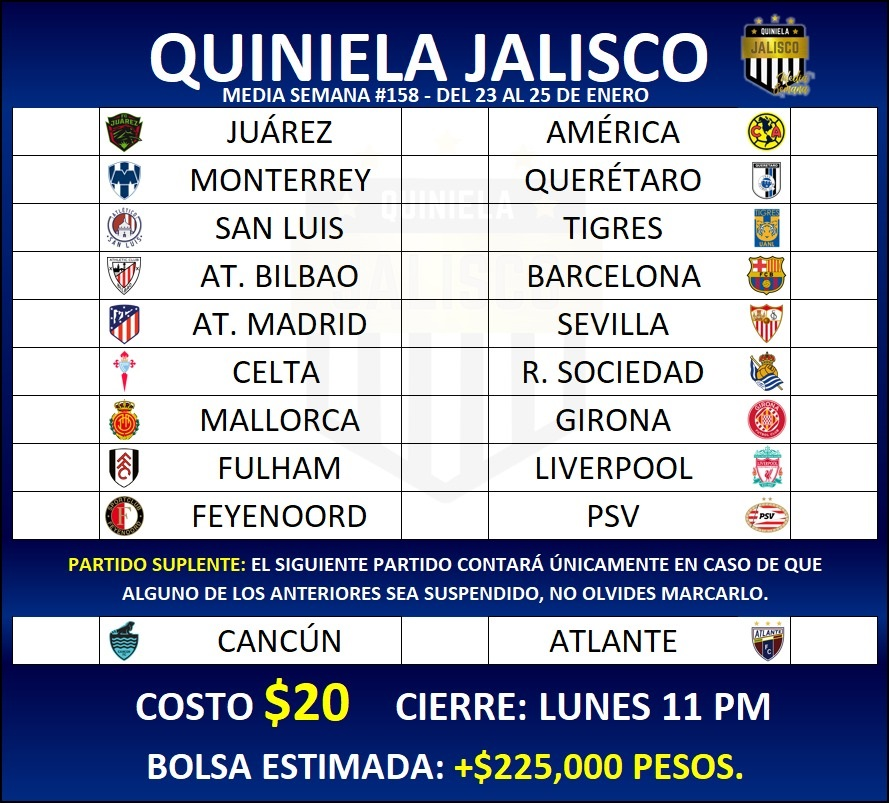
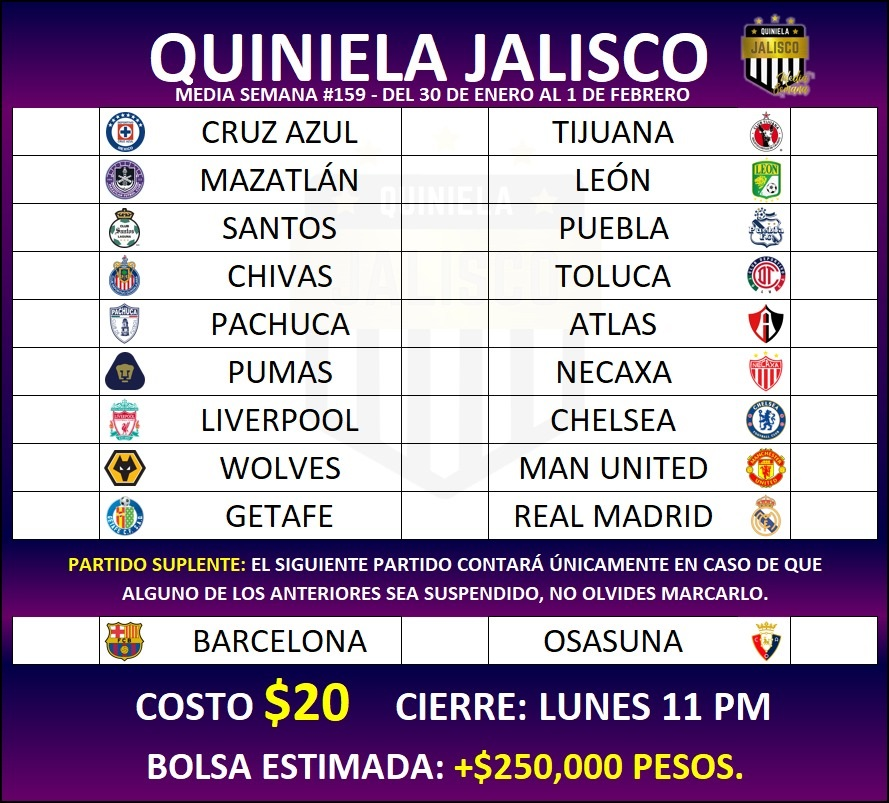
Media Semana #159

diff --git a/MediaSemana/stylesmSusp.css b/MediaSemana/stylesmSusp.css
@@ -94,8 +94,8 @@ body{
     margin-top: 9%;
     border: solid 1px black;
     border-radius: 0 0 14px 14px;
-    background: -webkit-linear-gradient(1turn, rgb(0,21,100) ,rgb(0 3 74) 80%);
-    background: linear-gradient(0.5turn, rgb(0,21,100) ,rgb(0 3 74) 80%);
+    background: -webkit-linear-gradient(1turn, rgb(60,0,90) ,rgb(0 3 74) 80%);
+    background: linear-gradient(0.5turn, rgb(60,0,90) ,rgb(0 3 74) 80%);
 }
 
 .text-lg{
@@ -290,7 +290,7 @@ h6{
 }
 
 #cantidad:before{
-    content:' +$225,000 pesos';
+    content:' +$250,000 pesos';
     color: yellow;
     white-space:pre;
 }
